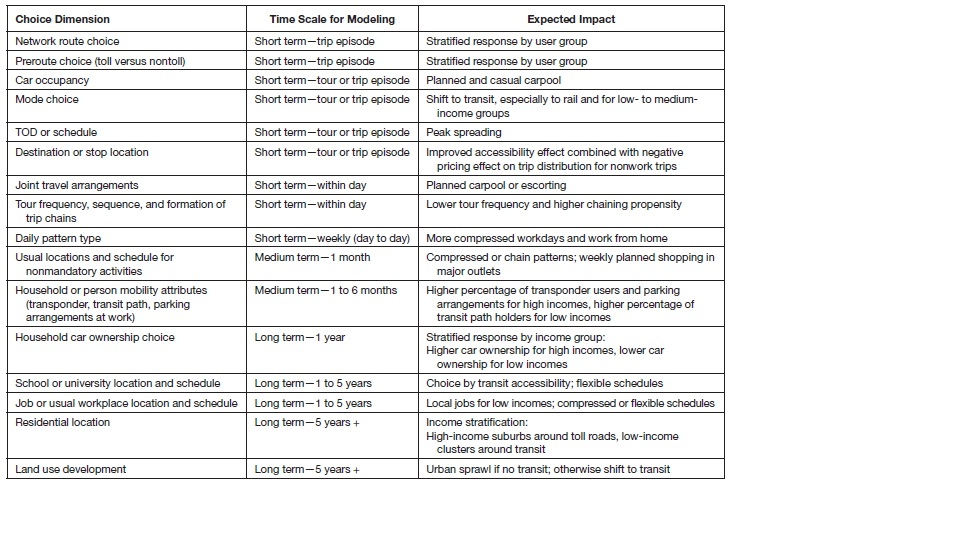
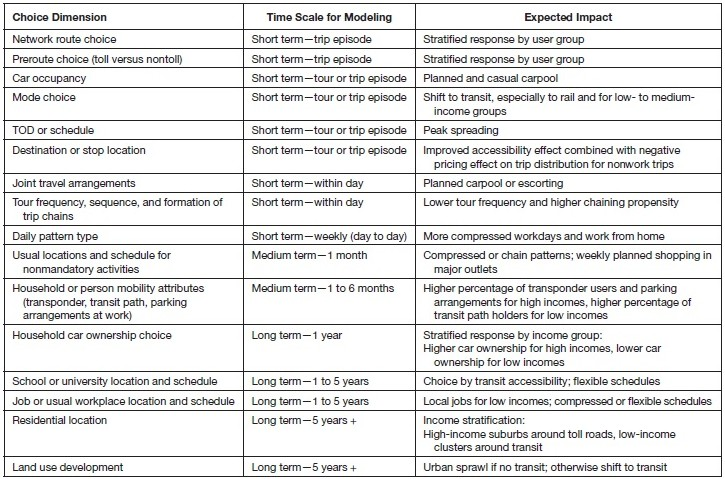
addi mages to pricing page

diff --git a/guide/Pricing.md b/guide/Pricing.md
@@ -6,6 +6,10 @@ The continued growth in travel demand, worsening congestion, coupled with signif
 
 THIS PAGE will consider methods and strategies for incorporating both pricing and tolling in travel models. **Tolling strategies** involve the imposition of fees for the use of a roadway facility; examples include fixed fees that motorists pay—usually based on the numberof axles or vehicle weight—to cross a bridge or tunnel or drive on a tolled highway facility. Tolling strategies are used primarily as a revenue source to finance and expedite the implementation of needed transportation improvements.
 
+::: tip
+Pricing regimens are invariably comprised of a combination of attributes.
+:::
+
 Pricing specifically refers to strategies that vary toll rates by time of day or traffic volume level to manage congestion or use of that facility. Pricing is used as a tool to influence travel behavior, reduce congestion, maximize vehicle throughput and provide new transportation options.or use of that facility.
 
 **Pricing regimens** are invariably comprised of a combination of attributes. As they move through the different phases of the evaluation process, pricing concepts are normally defined at greater and greater levels of resolution. During early stages of planing, pricing concepts are likely to be described by a few basic characteristics. At advanced stages of planning and design, careful review of their effects on traffic services, projects revenues, implementation cost, and financial feasibility will typically be important.
@@ -14,11 +18,13 @@ This page will consider any analytical treatment of monetary cost in models, whe
 
 ### Pricing Forms
 
+<span style="float:right; margin: 0 0 15px 15px">![Traveler Responses](../images/Pricing_forms.jpg)
+</span>
+
 Pricing level and structure are frequently the first set of considerations associated with any pricing initiative at early stages of decision-making. These considerations closely relate to the physical project alternatives. Second-order considerations involve further refinements such as pricing differentiation, eligibility by vehicle type and occupancy. These normally come into play at later stages of decisionmaking, when different pricing policies are examined for each physical design.
 
 In certain cases—such as the conversion of HOV lanes to HOT operation—second-order pricing considerations are considered immediately. Pricing level and lane eligibility by vehicle type generally remains an open issue. Different vehicle classification schemes may require evaluation—from a two-class car-and-truck system, to a four-class system including motorbikes and light commercial vehicles. The identification of the most appropriate classification will depend on local conditions and the expected mix of traffic.[1]
 
-![Traveler Responses]( pricing forms.jpg "Traveler Responses")
 
 ## Traveler Response to Pricing Strategies
 
@@ -66,13 +72,15 @@ Dozens of fare elasticity studies have been completed over the past view decases
 
 Possible behavioral responses to network pricing can be categorized temporally, and encompass short term, medium, and long term adjustments in travel behavior. The extent to which modeling methods will need to acocunt for each level of behavior will typically vary based on the planning stage and impacts of highest interest for decision-making [5]
 
-![Traveler Responses](behavior.jpg "Traveler Responses")
+![Traveler Responses](../images/behavior.jpg)
+>Traveler Responses
 
 ### Modeling Methods for Pricing
 
 While some model features that are absolutely essential to pricing studies in the very beginning of analysis, other more advanced features may be reserved for subsequent stages of project development (detailed feasibility and investment grade studies). The more advanced features, however, may become extremely relevant even early on, if a corresponding pricing strategy is included in the range of options included in the scope of the particular study, and a robust and consistent analysis of it is required to compare with other more easily modeled alternatives. Both essential and advanced modeling features may still belong in the category of short-term improvements and arenot explicitly distinguished here between 4-step (trip-based) and activity based frameworks in this classification. .[6]
 
-![Methods](pricing_treatments.png "Methods")
+![Methods](../images/pricing_treatments.png)
+>Pricing Methods
 
 Travel models applied for highway pricing and valuation are typically organized into the following classes; a summary of strenghts and weaknesses for evaluating pricing impacts is provided below :[7]
 
@@ -127,9 +135,9 @@ The C04 research discovered a strong non-linear relationship between houseold in
 
 [ CO4 recommendations](SHRP2_C04_-_Improving_Our_Understanding_of_How_Highway_Congestion_and_Pricing_Affect_Travel_Demand "wikilink"): Forecasting models typically use income either in a simplified linear form to scale travel costs or as a segmentation variable, with different cost coefficients in different income ranges. Neither approach seems entirely appropriate. The assumption of linearity with income seems too strong, particularly in higher income ranges, and the piecewise linear approach often results in strong nonlinearities or discontinuities in the effect of income that do not have a strong statistical or behavioral basis. The recommended approach is empirically justified across a wide body of evidence and provides a smooth response surface for forecasting.
 
-![](willingess_pay.png "willingess_pay.png")
+![](../images/willingess_pay.png)
 
-<sub>Proportion\\ of\\ payers\\ with\\ lognormal\\ distribution\\ for\\ VOT\\ for\\ a\\ toll\\ of\\ $20.</sub>
+<sub>Proportion of payers with lognormal distribution for VOT for a toll of $20.</sub>
 
 | Representing Value of Time in Travel Models [8]                                                                                                                                                                                                                                                                                                                                                                                                                                                                                                                                                                                                                                                                                                                                                                          |
 |--------------------------------------------------------------------------------------------------------------------------------------------------------------------------------------------------------------------------------------------------------------------------------------------------------------------------------------------------------------------------------------------------------------------------------------------------------------------------------------------------------------------------------------------------------------------------------------------------------------------------------------------------------------------------------------------------------------------------------------------------------------------------------------------------------------------------|
